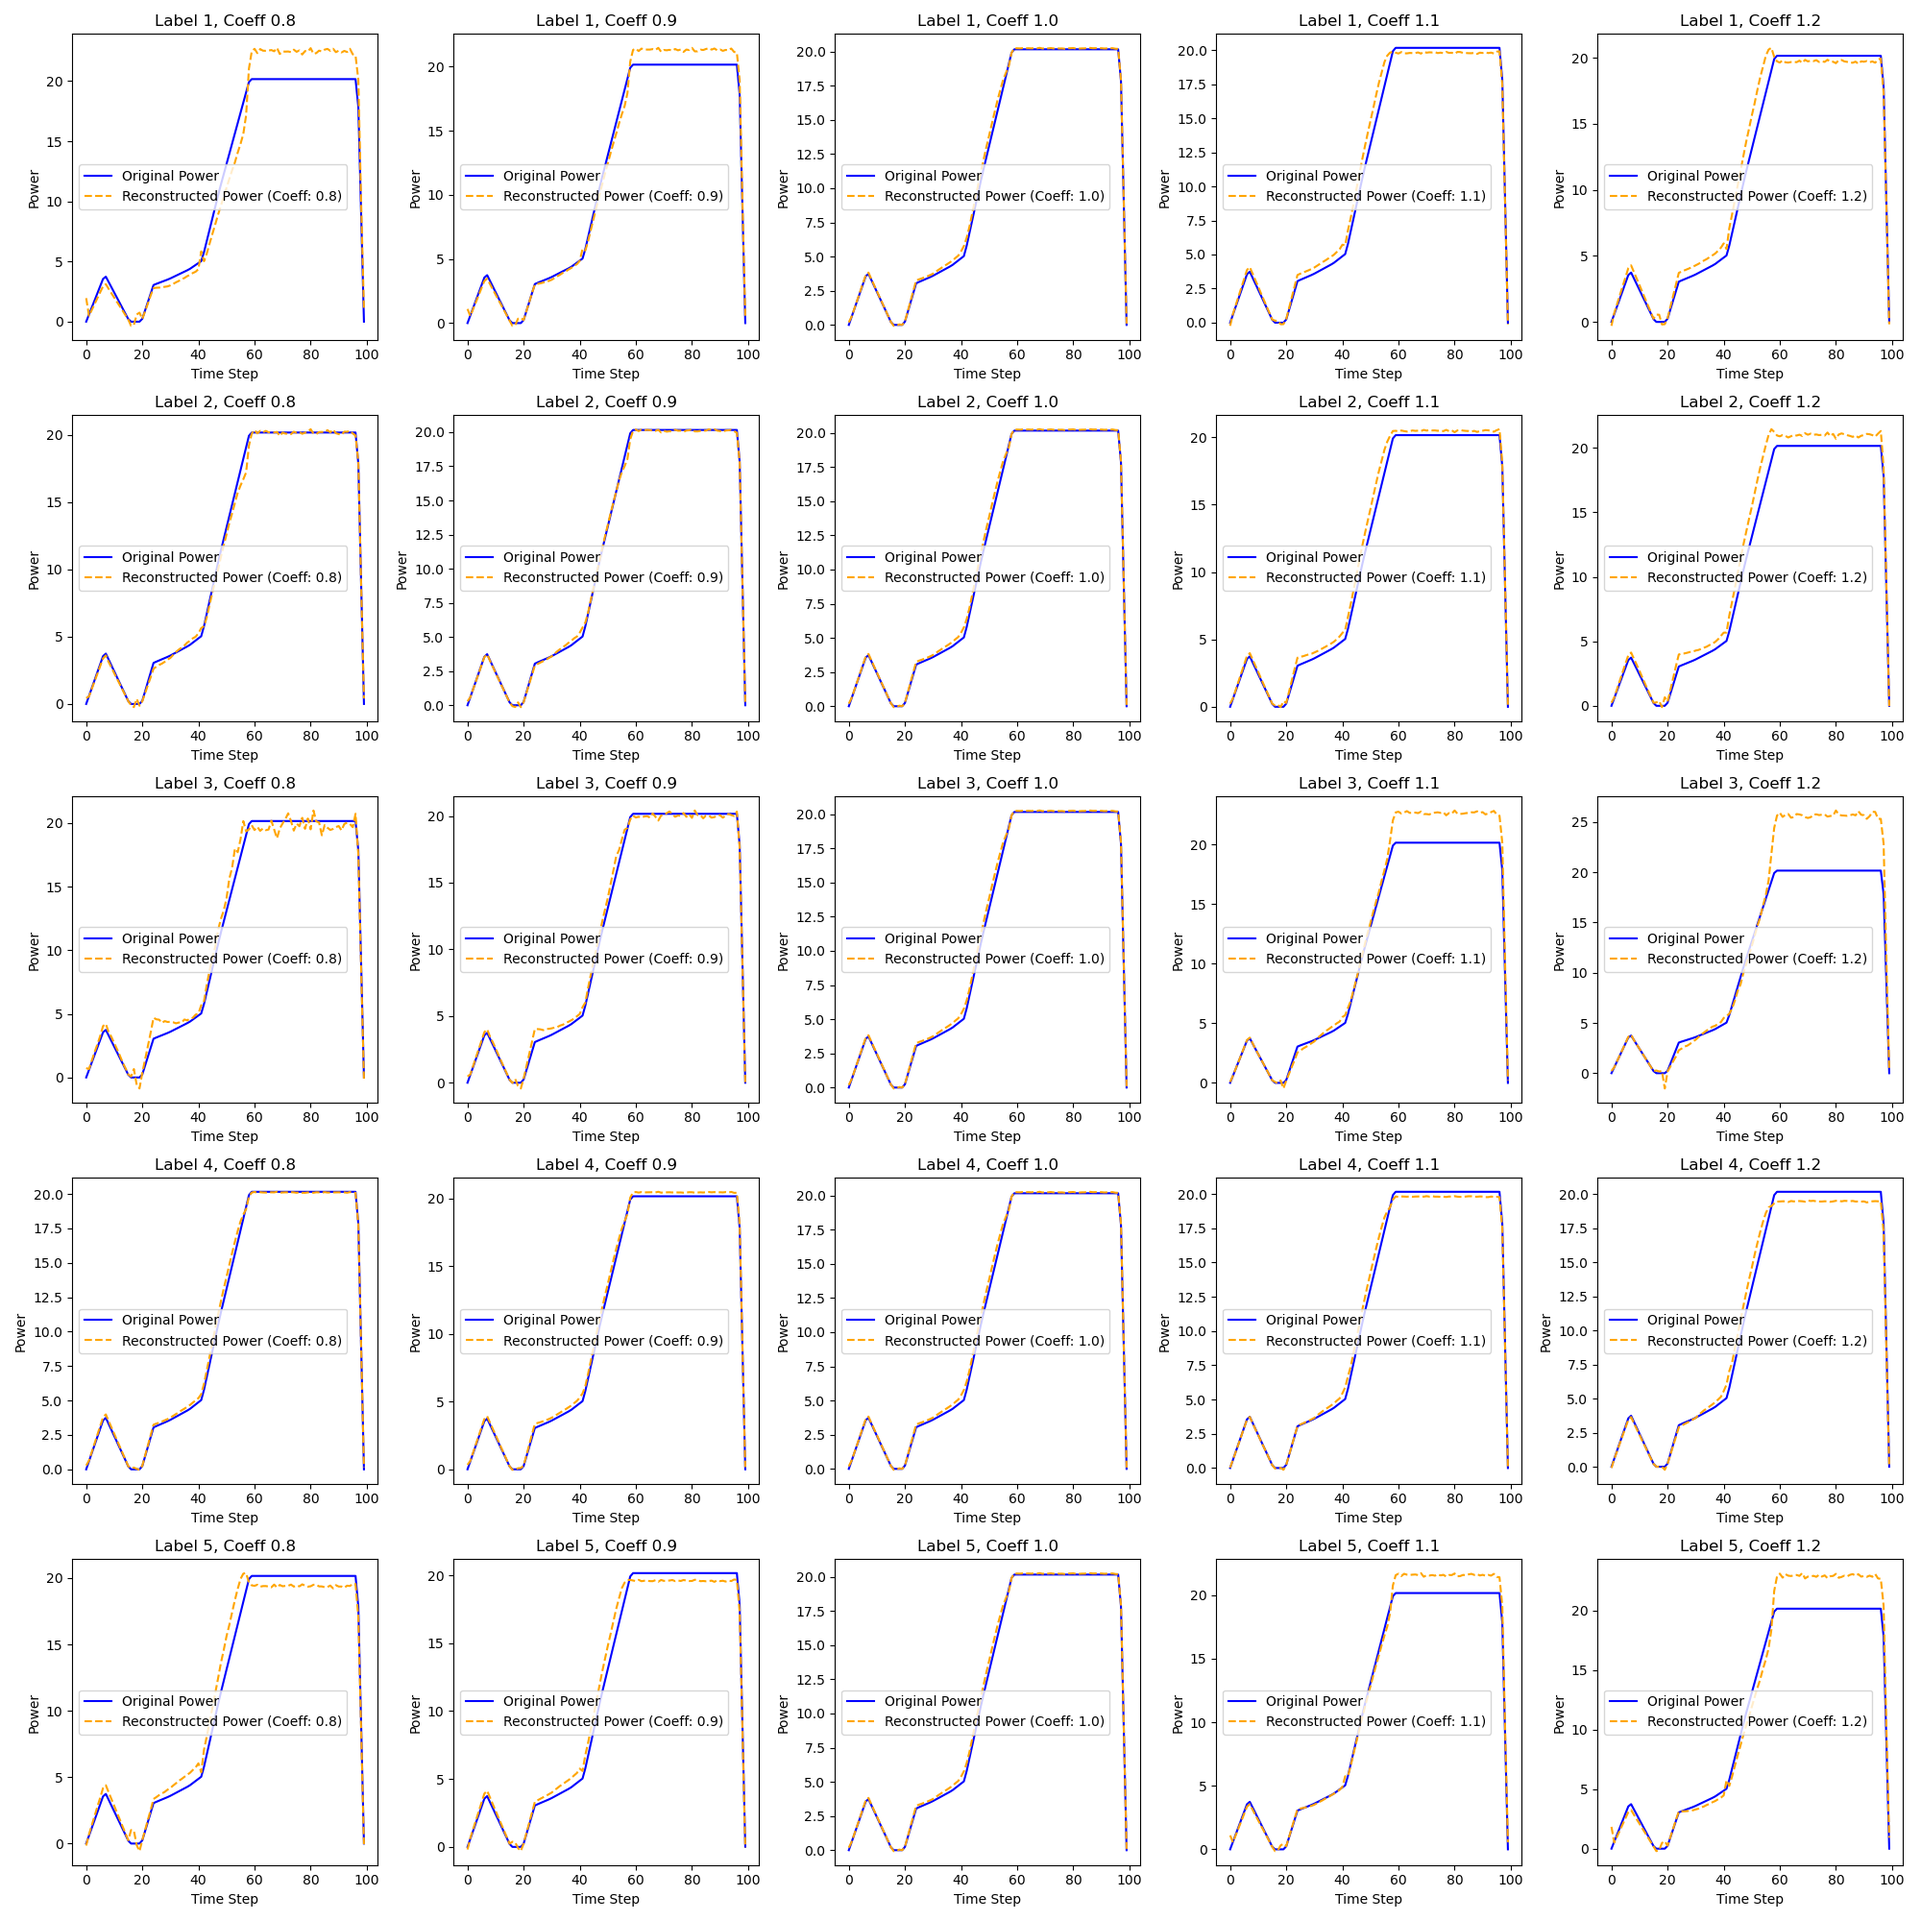
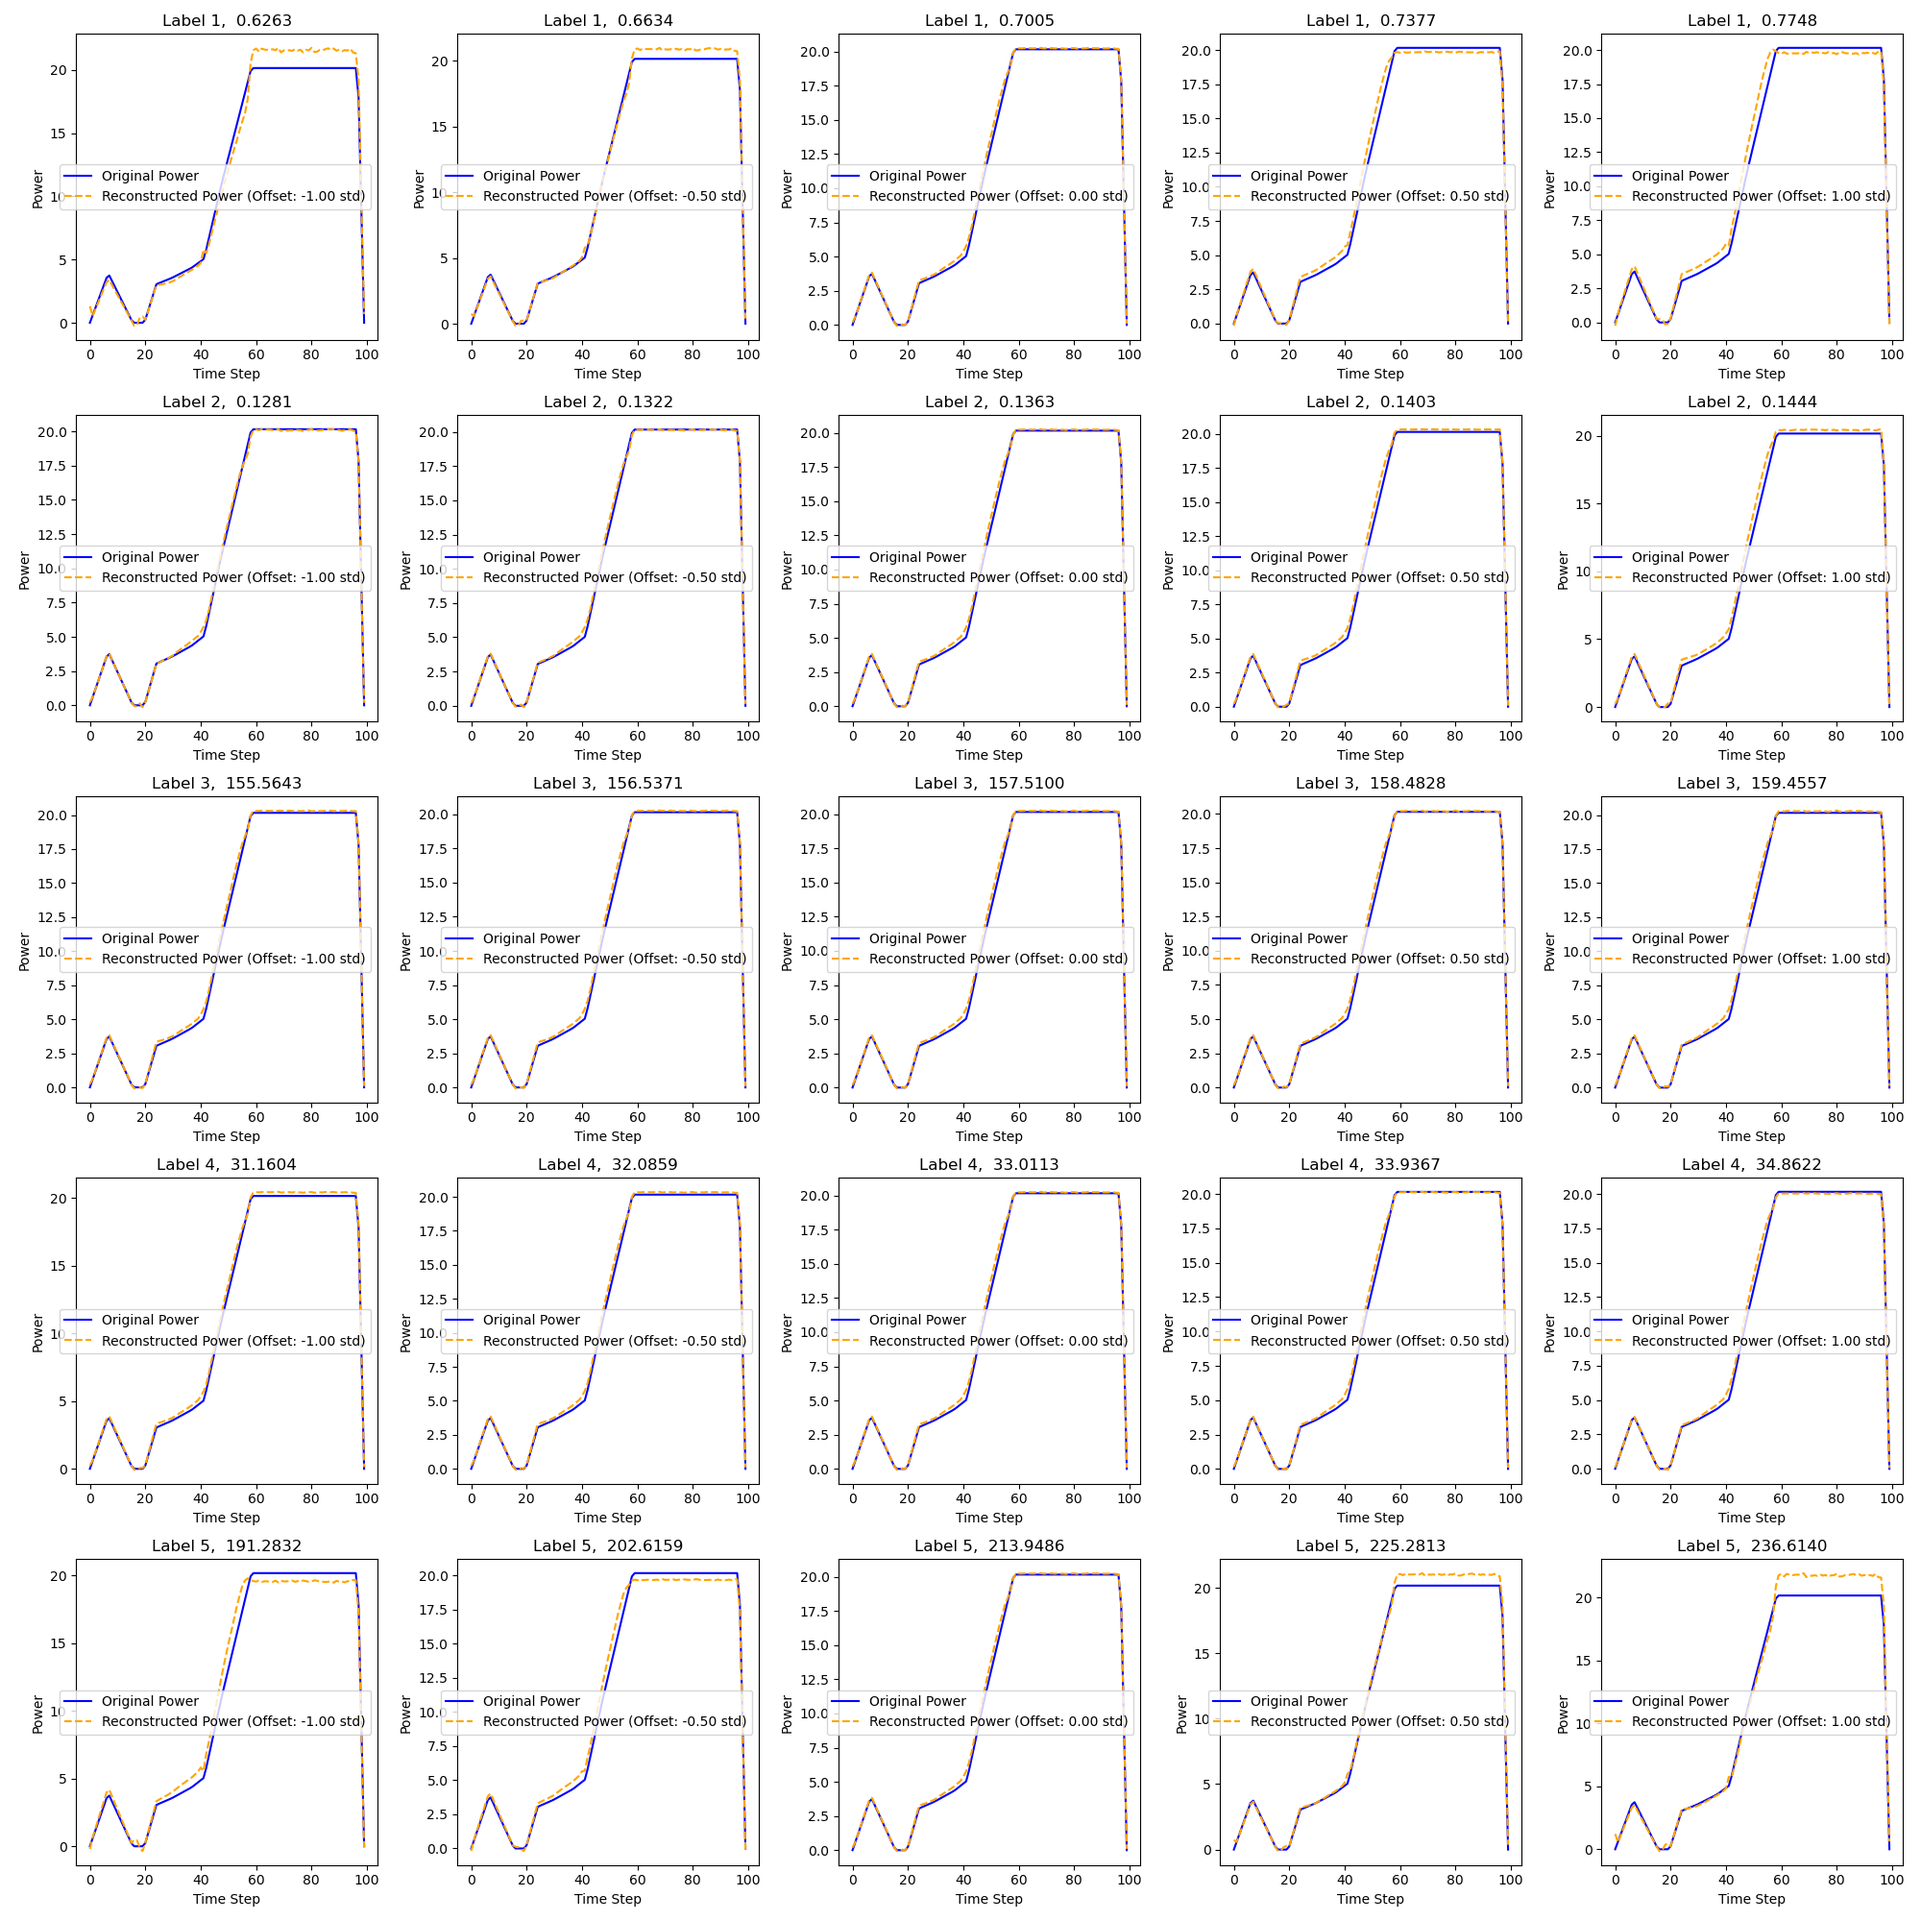
update

diff --git a/feature_ana/feature_ana.py b/feature_ana/feature_ana.py
@@ -18,13 +18,20 @@ class Decoder(nn.Module):
         x = self.fc2(x)
         return x
 
-def train_and_analyze_model(data_path,original_data_path, index=None, retrain=False, num_epochs=300, lr=0.001):
+def calculate_distribution(data,index_vector):
+    labels = data[:, 100:][:,index_vector]
+    mean_values = np.mean(labels, axis=0)
+    std_values = np.std(labels, axis=0)
+    return mean_values, std_values
+
+def train_and_analyze_model(data_path, original_data_path, index=None, retrain=False, num_epochs=300, lr=0.001):
     """
     训练解码器模型并进行分析。
 
     参数:
         data_path (str): 数据文件路径。
-        index (int, optional): 如果加载预训练模型，指定模型索引。默认为None。
+        original_data_path (str): 原始数据文件路径。
+        index (int, optional): 模型索引和数据索引。默认为None。
         retrain (bool, optional): 是否重新训练模型。默认为False。
         num_epochs (int, optional): 训练轮数。默认为300。
         lr (float, optional): 学习率。默认为0.001。
@@ -36,9 +43,18 @@ def train_and_analyze_model(data_path,original_data_path, index=None, retrain=Fa
 
     # 加载数据
     data = np.load(data_path)
-    original_data=np.load(original_data_path)
+    original_data = np.load(original_data_path)
 
+    # 提取 index_data
+    if index is not None:
+        index_data = data[original_data.shape[0] + index * 3125:original_data.shape[0] + (index + 1) * 3125]
+    else:
+        index_data = data
 
+    # 计算 index_data 的均值和标准差
+    index_mean, index_std = calculate_distribution(index_data, [0, 1, 2, 3, 5])
+
+    # 提取标签和功率数据
     index_vector = [0, 1, 2, 3, 5]
     powers = data[:, :100]
     labels = data[:, 100:][:, index_vector]
@@ -100,18 +116,18 @@ def train_and_analyze_model(data_path,original_data_path, index=None, retrain=Fa
     first_sample_labels = labels[0]  # 第一行原始标签
     first_sample_powers = powers[0]  # 第一行原始功率序列
 
-    # 定义系数范围
-    coefficients = [0.8, 0.9, 1.0, 1.1, 1.2]
+    # 定义偏移系数（基于标准差）
+    offsets = [-1, -0.5,0, 0.5, 1]
 
     # 创建画布
     fig, axes = plt.subplots(feature_size, 5, figsize=(20, 20))  # feature_size行5列的子图
 
-    # 遍历每个标签和系数
+    # 遍历每个标签和偏移
     for label_idx in range(feature_size):  # feature_size个标签
-        for coeff_idx, coeff in enumerate(coefficients):  # 5个系数
+        for offset_idx, offset in enumerate(offsets):  # 5个偏移
             # 修改当前标签的值（在原始数据上操作）
             modified_labels = first_sample_labels.copy()
-            modified_labels[label_idx] *= coeff
+            modified_labels[label_idx] += offset * index_std[label_idx]
 
             # 将修改后的标签归一化
             normalized_modified_labels = scaler_labels.transform(modified_labels.reshape(1, -1))
@@ -125,10 +141,10 @@ def train_and_analyze_model(data_path,original_data_path, index=None, retrain=Fa
             reconstructed_power_inv = scaler_powers.inverse_transform(reconstructed_power.reshape(1, -1)).flatten()
 
             # 绘制原始功率曲线和重构功率曲线
-            ax = axes[label_idx, coeff_idx]
+            ax = axes[label_idx, offset_idx]
             ax.plot(first_sample_powers, label="Original Power", color="blue")
-            ax.plot(reconstructed_power_inv, label=f"Reconstructed Power (Coeff: {coeff})", color="orange", linestyle="--")
-            ax.set_title(f"Label {label_idx + 1}, Coeff {coeff}")
+            ax.plot(reconstructed_power_inv, label=f"Reconstructed Power (Offset: {offset:.2f} std)", color="orange", linestyle="--")
+            ax.set_title(f"Label {label_idx + 1},  {index_mean[label_idx]+offset*index_std[label_idx]:.4f}")
             ax.set_xlabel("Time Step")
             ax.set_ylabel("Power")
             ax.legend()
@@ -141,4 +157,4 @@ def train_and_analyze_model(data_path,original_data_path, index=None, retrain=Fa
 
 
 # train_and_analyze_model(data_path="combined_data.npy",original_data_path="original_data.npy", retrain=True)
-train_and_analyze_model(data_path="combined_data.npy",original_data_path="original_data.npy", index=4)
+train_and_analyze_model(data_path="combined_data.npy",original_data_path="original_data1.npy", index=2)
